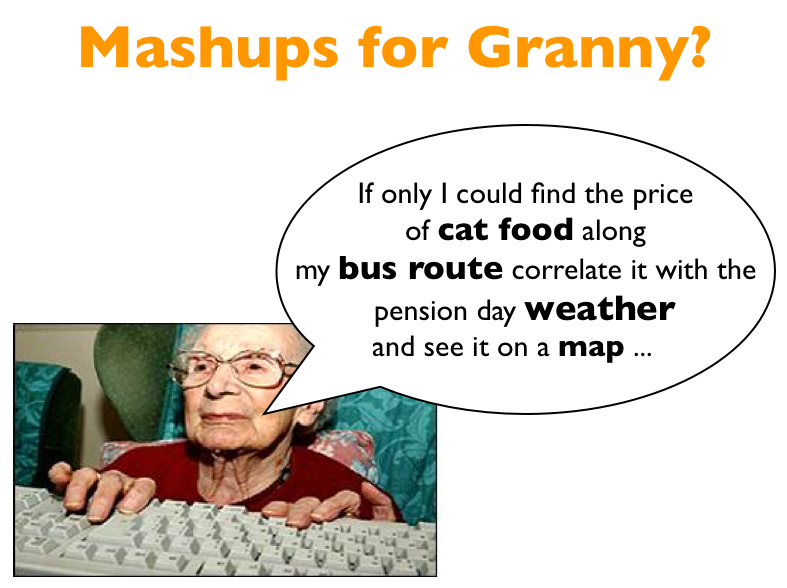
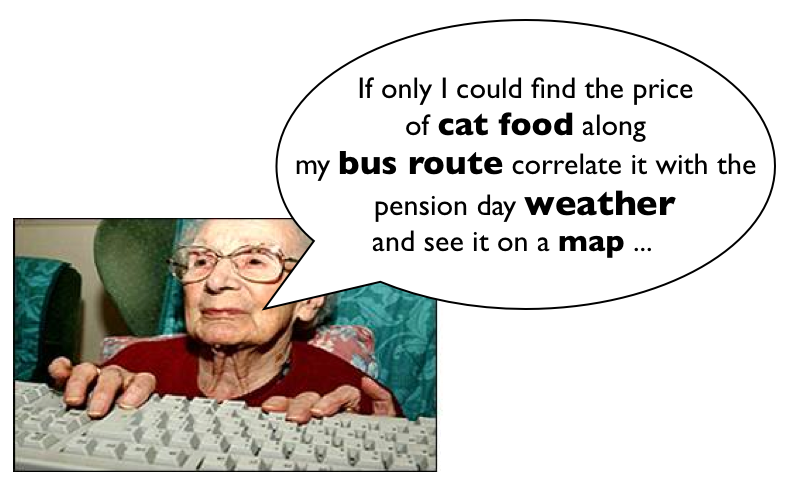
fix granny pic apply fixes found by Dan

diff --git a/presentations/week03.html b/presentations/week03.html
@@ -137,9 +137,9 @@ blog posts about Django and PostgreSQL):</p>
 it supports standard file read operations:</p>
 <pre class="code python literal-block">
 <span class="o">&gt;&gt;&gt;</span> <span class="n">html</span> <span class="o">=</span> <span class="n">page</span><span class="o">.</span><span class="n">read</span><span class="p">()</span>
-<span class="o">&gt;&gt;&gt;</span> <span class="nb">len</span><span class="p">(</span><span class="n">page</span><span class="p">)</span>
+<span class="o">&gt;&gt;&gt;</span> <span class="nb">len</span><span class="p">(</span><span class="n">html</span><span class="p">)</span>
 <span class="mi">373447</span>
-<span class="o">&gt;&gt;&gt;</span> <span class="k">print</span> <span class="n">page</span>
+<span class="o">&gt;&gt;&gt;</span> <span class="k">print</span> <span class="n">html</span>
 
 <span class="o">&lt;</span><span class="err">!</span><span class="n">DOCTYPE</span> <span class="n">html</span> <span class="n">PUBLIC</span>
   <span class="s">&quot;-//W3C//DTD XHTML 1.0 Transitional//EN&quot;</span>
@@ -162,7 +162,7 @@ and one for PostgreSQL</p>
 </div>
 <div class="slide" id="brief-interlude">
 <h1>Brief Interlude</h1>
-<p class="big-centered">&quot;Some people, when confronted with a problem, think 'I know, I'ʹll use regular
+<p class="big-centered">&quot;Some people, when confronted with a problem, think 'I know, I'll use regular
 expressions.' Now they have two problems.&quot;</p>
 </div>
 <div class="slide" id="even-better">
@@ -225,9 +225,9 @@ $ python virtualenv.py [options] &lt;ENV&gt;
 <p>&lt;ENV&gt; is just the name of the environment you want to create. It's arbitrary.
 Let's make one for our BeautifulSoup install:</p>
 <pre class="literal-block">
-$ python virtualanv.py --distribute soupenv
-New python executable in fooenv/bin/python2.6
-Also creating executable in fooenv/bin/python
+$ python virtualenv.py --distribute soupenv
+New python executable in soupenv/bin/python2.6
+Also creating executable in soupenv/bin/python
 Installing distribute........................
 .............................................
 ...done.
@@ -238,7 +238,7 @@ Installing distribute........................
 <p>When you ran that file, a couple of things took place:</p>
 <ul class="incremental simple">
 <li>A new directory with your requested name was created</li>
-<li>A new Python executable was created in &lt;ENV&gt;/bin</li>
+<li>A new Python executable was created in &lt;ENV&gt;/bin (&lt;ENV&gt;/Scripts on Windows)</li>
 <li>The new Python was cloned from the Python used to run the file</li>
 <li>The new Python was isolated from any libraries installed in the old Python</li>
 <li>Distribute (a newer, better setuptools) was installed so you have <tt class="docutils literal">easy_install</tt></li>
@@ -364,21 +364,20 @@ of the feed (Planet Django or Planet PostgreSQL)</li>
 <div class="slide" id="testing-it-out">
 <h1>Testing it out</h1>
 <pre class="code python literal-block">
-<span class="o">&gt;&gt;&gt;</span> <span class="k">for</span> <span class="n">e</span> <span class="ow">in</span> <span class="n">entries</span><span class="p">:</span>
-<span class="o">...</span>     <span class="n">anchor</span> <span class="o">=</span> <span class="n">e</span><span class="o">.</span><span class="n">find</span><span class="p">(</span><span class="s">'a'</span><span class="p">)</span>
-<span class="o">...</span>     <span class="n">paragraph</span> <span class="o">=</span> <span class="n">e</span><span class="o">.</span><span class="n">find</span><span class="p">(</span><span class="s">'p'</span><span class="p">,</span> <span class="s">'discreet'</span><span class="p">)</span>
-<span class="o">...</span>     <span class="n">title</span> <span class="o">=</span> <span class="n">anchor</span><span class="o">.</span><span class="n">text</span><span class="o">.</span><span class="n">strip</span><span class="p">()</span>
-<span class="o">...</span>     <span class="n">url</span> <span class="o">=</span> <span class="n">anchor</span><span class="o">.</span><span class="n">attrs</span><span class="p">[</span><span class="s">'href'</span><span class="p">]</span>
-<span class="o">...</span>     <span class="k">print</span> <span class="n">title</span>
-<span class="o">...</span>     <span class="k">print</span> <span class="n">url</span>
-<span class="o">...</span>     <span class="k">try</span><span class="p">:</span>
-<span class="o">...</span>         <span class="k">print</span> <span class="n">paragraph</span><span class="o">.</span><span class="n">text</span><span class="o">.</span><span class="n">strip</span><span class="p">()</span>
-<span class="o">...</span>     <span class="k">except</span> <span class="ne">AttributeError</span><span class="p">:</span>
-<span class="o">...</span>         <span class="k">print</span> <span class="s">'Uncategorized'</span>
-<span class="o">...</span>     <span class="k">print</span>
-<span class="o">...</span>
-<span class="o">&gt;&gt;&gt;</span>
+<span class="k">for</span> <span class="n">e</span> <span class="ow">in</span> <span class="n">entries</span><span class="p">:</span>
+    <span class="n">anchor</span> <span class="o">=</span> <span class="n">e</span><span class="o">.</span><span class="n">find</span><span class="p">(</span><span class="s">'a'</span><span class="p">)</span>
+    <span class="n">paragraph</span> <span class="o">=</span> <span class="n">e</span><span class="o">.</span><span class="n">find</span><span class="p">(</span><span class="s">'p'</span><span class="p">,</span> <span class="s">'discreet'</span><span class="p">)</span>
+    <span class="n">title</span> <span class="o">=</span> <span class="n">anchor</span><span class="o">.</span><span class="n">text</span><span class="o">.</span><span class="n">strip</span><span class="p">()</span>
+    <span class="n">url</span> <span class="o">=</span> <span class="n">anchor</span><span class="o">.</span><span class="n">attrs</span><span class="p">[</span><span class="s">'href'</span><span class="p">]</span>
+    <span class="k">print</span> <span class="n">title</span>
+    <span class="k">print</span> <span class="n">url</span>
+    <span class="k">try</span><span class="p">:</span>
+        <span class="k">print</span> <span class="n">paragraph</span><span class="o">.</span><span class="n">text</span><span class="o">.</span><span class="n">strip</span><span class="p">()</span>
+    <span class="k">except</span> <span class="ne">AttributeError</span><span class="p">:</span>
+        <span class="k">print</span> <span class="s">'Uncategorized'</span>
+    <span class="k">print</span>
 </pre>
+<p class="incremental">Watch for unicode encoding errors, I don't get any, but you might.</p>
 </div>
 <div class="slide" id="lab-1-20-mins">
 <h1>Lab 1 - 20 mins</h1>
@@ -397,6 +396,14 @@ of the feed (Planet Django or Planet PostgreSQL)</li>
 </div>
 </div>
 <p class="incremental center"><strong>GO</strong></p>
+</div>
+<div class="slide" id="short-break">
+<h1>Short Break</h1>
+<p>While you are taking a short break, you might take a moment to sign up for
+the geocoding service we'll use later:</p>
+<p><a class="reference external" href="http://geoservices.tamu.edu/UserServices/Signup.aspx">http://geoservices.tamu.edu/UserServices/Signup.aspx</a></p>
+<p>You can also view your profile once you've signed up:</p>
+<p><a class="reference external" href="http://geoservices.tamu.edu/UserServices/Profile/ViewProfile.aspx">http://geoservices.tamu.edu/UserServices/Profile/ViewProfile.aspx</a></p>
 </div>
 <div class="slide" id="another-approach">
 <h1>Another Approach</h1>
@@ -465,7 +472,7 @@ content</p>
 <h1>XML-RPC</h1>
 <p>If we can provide a single endpoint that returns a single data set (RSS), can
 we also allow <em>calling procedures</em> at an endpoint?</p>
-<p class="incremental">We can!  Enter XML-RPC</p>
+<p class="incremental">We can!  Enter XML-RPC (Remote Procedure Call)</p>
 <ul class="incremental simple">
 <li>Provides a set of defined procedures which can take arguments</li>
 <li>Calls are made via HTTP GET, by passing an XML document</li>
@@ -594,8 +601,8 @@ server.register_instance(MyClass())
         <span class="k">return</span> <span class="n">f</span><span class="o">.</span><span class="n">__doc__</span>
 </pre>
 </div>
-<div class="slide" id="xml-rpc-instrospection">
-<h1>XML-RPC Instrospection</h1>
+<div class="slide" id="id1">
+<h1>XML-RPC Introspection</h1>
 <p>Then enable introspection via the server instance:</p>
 <pre class="code python small literal-block">
 <span class="n">server</span><span class="o">.</span><span class="n">register_introspection_functions</span><span class="p">()</span>
@@ -611,6 +618,15 @@ your service offers:</p>
 <span class="n">public_method</span>
     <span class="n">this</span> <span class="n">method</span> <span class="ow">is</span> <span class="n">public</span>
 </pre>
+</div>
+<div class="slide" id="introspection-question">
+<h1>Introspection Question</h1>
+<p>I told you when we added the <tt class="docutils literal">_private_method</tt> that any method that any
+method whose name starts with <tt class="docutils literal">_</tt> would be <strong>private</strong>.</p>
+<p class="incremental">But we also added a <tt class="docutils literal">_listMethods</tt> method and a <tt class="docutils literal">_methodHelp</tt> method and
+<em>those</em> methods are listed when you run <tt class="docutils literal">proxy.system.listMethods()</tt></p>
+<p class="incremental">Why is this?</p>
+<p class="incremental">For a complete discussion of this, read <a class="reference external" href="http://www.doughellmann.com/PyMOTW/SimpleXMLRPCServer/index.html#introspection-api">this MOTW post</a></p>
 </div>
 <div class="slide" id="beyond-xml-rpc">
 <h1>Beyond XML-RPC</h1>
@@ -724,17 +740,17 @@ more than one <em>port</em>. Suds provides two ways to configure which <em>servi
 <p>Arguments to a method are set up as a dictionary.  Although some may not be
 required according to api documentation, it is safest to provide them all:</p>
 <pre class="code python small literal-block">
-<span class="o">&gt;&gt;&gt;</span> <span class="n">apiKey</span> <span class="o">=</span> <span class="s">'&lt;fill this in&gt;'</span>
-<span class="o">&gt;&gt;&gt;</span> <span class="n">args</span> <span class="o">=</span> <span class="p">{</span><span class="s">'apiKey'</span><span class="p">:</span> <span class="n">apiKey</span><span class="p">,</span> <span class="p">}</span>
-<span class="o">&gt;&gt;&gt;</span> <span class="n">args</span><span class="p">[</span><span class="s">'streetAddress'</span><span class="p">]</span> <span class="o">=</span> <span class="s">'1325 4th Avenue'</span>
-<span class="o">&gt;&gt;&gt;</span> <span class="n">args</span><span class="p">[</span><span class="s">'city'</span><span class="p">]</span> <span class="o">=</span> <span class="s">'Seattle'</span>
-<span class="o">&gt;&gt;&gt;</span> <span class="n">args</span><span class="p">[</span><span class="s">'state'</span><span class="p">]</span> <span class="o">=</span> <span class="s">'WA'</span>
-<span class="o">&gt;&gt;&gt;</span> <span class="n">args</span><span class="p">[</span><span class="s">'zip'</span><span class="p">]</span> <span class="o">=</span> <span class="s">'98101'</span>
-<span class="o">&gt;&gt;&gt;</span> <span class="n">args</span><span class="p">[</span><span class="s">'version'</span><span class="p">]</span> <span class="o">=</span> <span class="mf">3.01</span>
-<span class="o">&gt;&gt;&gt;</span> <span class="n">args</span><span class="p">[</span><span class="s">'shouldReturnReferenceGeometry'</span><span class="p">]</span> <span class="o">=</span> <span class="bp">True</span>
-<span class="o">&gt;&gt;&gt;</span> <span class="n">args</span><span class="p">[</span><span class="s">'shouldNotStoreTransactionDetails'</span><span class="p">]</span> <span class="o">=</span> <span class="bp">True</span>
-<span class="o">&gt;&gt;&gt;</span> <span class="n">args</span><span class="p">[</span><span class="s">'shouldCalculateCensus'</span><span class="p">]</span> <span class="o">=</span> <span class="bp">False</span>
-<span class="o">&gt;&gt;&gt;</span> <span class="n">args</span><span class="p">[</span><span class="s">'censusYear'</span><span class="p">]</span> <span class="o">=</span> <span class="s">&quot;TwoThousandTen&quot;</span>
+<span class="n">apiKey</span> <span class="o">=</span> <span class="s">'&lt;fill this in&gt;'</span>
+<span class="n">args</span> <span class="o">=</span> <span class="p">{</span><span class="s">'apiKey'</span><span class="p">:</span> <span class="n">apiKey</span><span class="p">,</span> <span class="p">}</span>
+<span class="n">args</span><span class="p">[</span><span class="s">'streetAddress'</span><span class="p">]</span> <span class="o">=</span> <span class="s">'1325 4th Avenue'</span>
+<span class="n">args</span><span class="p">[</span><span class="s">'city'</span><span class="p">]</span> <span class="o">=</span> <span class="s">'Seattle'</span>
+<span class="n">args</span><span class="p">[</span><span class="s">'state'</span><span class="p">]</span> <span class="o">=</span> <span class="s">'WA'</span>
+<span class="n">args</span><span class="p">[</span><span class="s">'zip'</span><span class="p">]</span> <span class="o">=</span> <span class="s">'98101'</span>
+<span class="n">args</span><span class="p">[</span><span class="s">'version'</span><span class="p">]</span> <span class="o">=</span> <span class="mf">3.01</span>
+<span class="n">args</span><span class="p">[</span><span class="s">'shouldReturnReferenceGeometry'</span><span class="p">]</span> <span class="o">=</span> <span class="bp">True</span>
+<span class="n">args</span><span class="p">[</span><span class="s">'shouldNotStoreTransactionDetails'</span><span class="p">]</span> <span class="o">=</span> <span class="bp">True</span>
+<span class="n">args</span><span class="p">[</span><span class="s">'shouldCalculateCensus'</span><span class="p">]</span> <span class="o">=</span> <span class="bp">False</span>
+<span class="n">args</span><span class="p">[</span><span class="s">'censusYear'</span><span class="p">]</span> <span class="o">=</span> <span class="s">&quot;TwoThousandTen&quot;</span>
 </pre>
 </div>
 <div class="slide" id="making-the-call">
@@ -864,9 +880,9 @@ valid Boolean value.'</li>
 </div>
 <div class="slide" id="json-data-types">
 <h1>JSON Data Types</h1>
-<p>JSON provides a few basic data types:</p>
+<p>JSON provides a few basic data types (see <a class="reference external" href="http://json.org/">http://json.org/</a>):</p>
 <ul class="incremental simple">
-<li>string: unicode, anything but '&quot;', '' and control chars</li>
+<li>string: unicode, anything but &quot;, \ and control characters</li>
 <li>number: any number, but json does not use octal or hexidecimal</li>
 <li>object, array (we've seen these above)</li>
 <li>true</li>
@@ -898,7 +914,7 @@ valid Boolean value.'</li>
 <span class="o">&gt;&gt;&gt;</span> <span class="n">array</span> <span class="o">=</span> <span class="p">[</span><span class="mi">1</span><span class="p">,</span><span class="mi">2</span><span class="p">,</span><span class="mi">3</span><span class="p">]</span>
 <span class="o">&gt;&gt;&gt;</span> <span class="n">json</span><span class="o">.</span><span class="n">dumps</span><span class="p">(</span><span class="n">array</span><span class="p">)</span>
 <span class="o">&gt;&gt;&gt;</span> <span class="n">orig</span> <span class="o">=</span> <span class="p">{</span><span class="s">'foo'</span><span class="p">:</span> <span class="p">[</span><span class="mi">1</span><span class="p">,</span><span class="mi">2</span><span class="p">,</span><span class="mi">3</span><span class="p">],</span> <span class="s">'bar'</span><span class="p">:</span> <span class="s">u'my resumé'</span><span class="p">,</span> <span class="s">'baz'</span><span class="p">:</span> <span class="bp">True</span><span class="p">}</span>
-<span class="o">&gt;&gt;&gt;</span> <span class="n">encoded</span> <span class="o">=</span> <span class="n">json</span><span class="o">.</span><span class="n">dumps</span><span class="p">(</span><span class="n">dict_</span><span class="p">)</span>
+<span class="o">&gt;&gt;&gt;</span> <span class="n">encoded</span> <span class="o">=</span> <span class="n">json</span><span class="o">.</span><span class="n">dumps</span><span class="p">(</span><span class="n">orig</span><span class="p">)</span>
 <span class="o">&gt;&gt;&gt;</span> <span class="n">encoded</span>
 <span class="s">'{&quot;baz&quot;: true, &quot;foo&quot;: [1, 2, 3], &quot;bar&quot;: &quot;my resum</span><span class="se">\\</span><span class="s">u00e9&quot;}'</span>
 <span class="o">&gt;&gt;&gt;</span> <span class="n">decoded</span> <span class="o">=</span> <span class="n">json</span><span class="o">.</span><span class="n">loads</span><span class="p">(</span><span class="n">encoded</span><span class="p">)</span>
@@ -907,7 +923,7 @@ valid Boolean value.'</li>
 </pre>
 <p class="incremental">Customizing the encoder or decoder class allows for specialized serializations</p>
 </div>
-<div class="slide" id="id1">
+<div class="slide" id="id2">
 <h1>JSON in Python</h1>
 <p>the json module also supports reading and writing to <em>file-like objects</em> via
 <tt class="docutils literal">json.dump(fp)</tt> and <tt class="docutils literal">json.load(fp)</tt> (note the missing 's')</p>
@@ -922,7 +938,7 @@ interoperability.</p>
 <p class="incremental">Does that really work in real life?</p>
 <p class="incremental center">Hardly ever</p>
 </div>
-<div class="slide" id="id2">
+<div class="slide" id="id3">
 <h1>What about WSDL?</h1>
 <p>Another reason was to provide extensibility via custom types</p>
 <p class="incremental">Does that really work in real life?</p>
